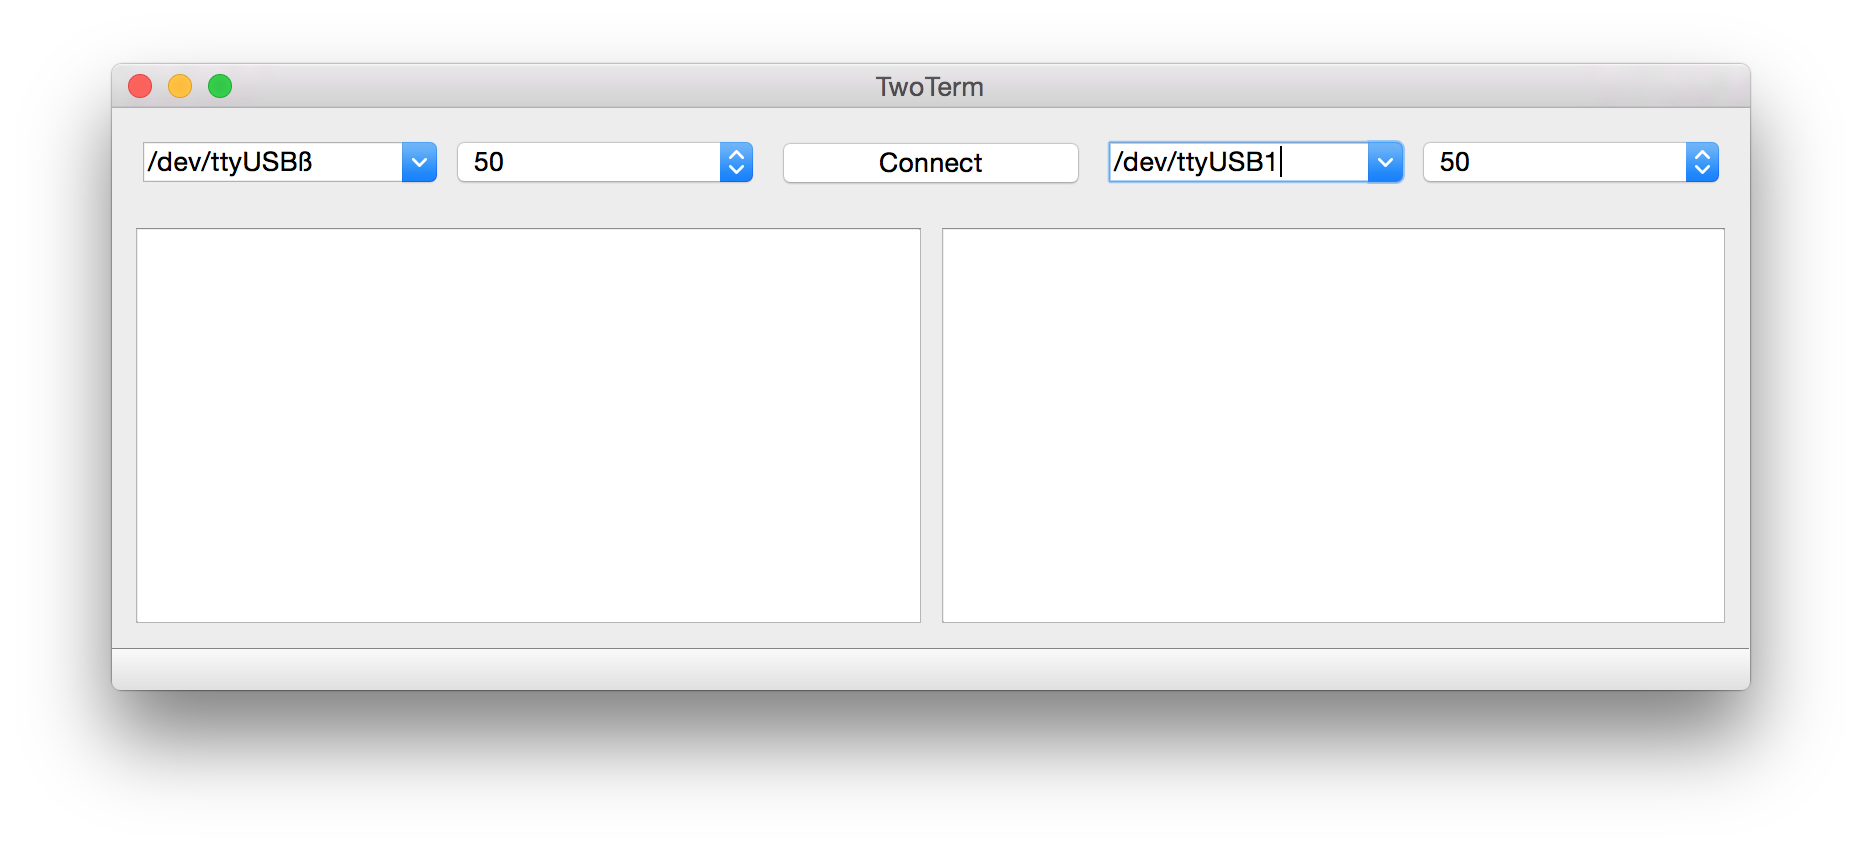
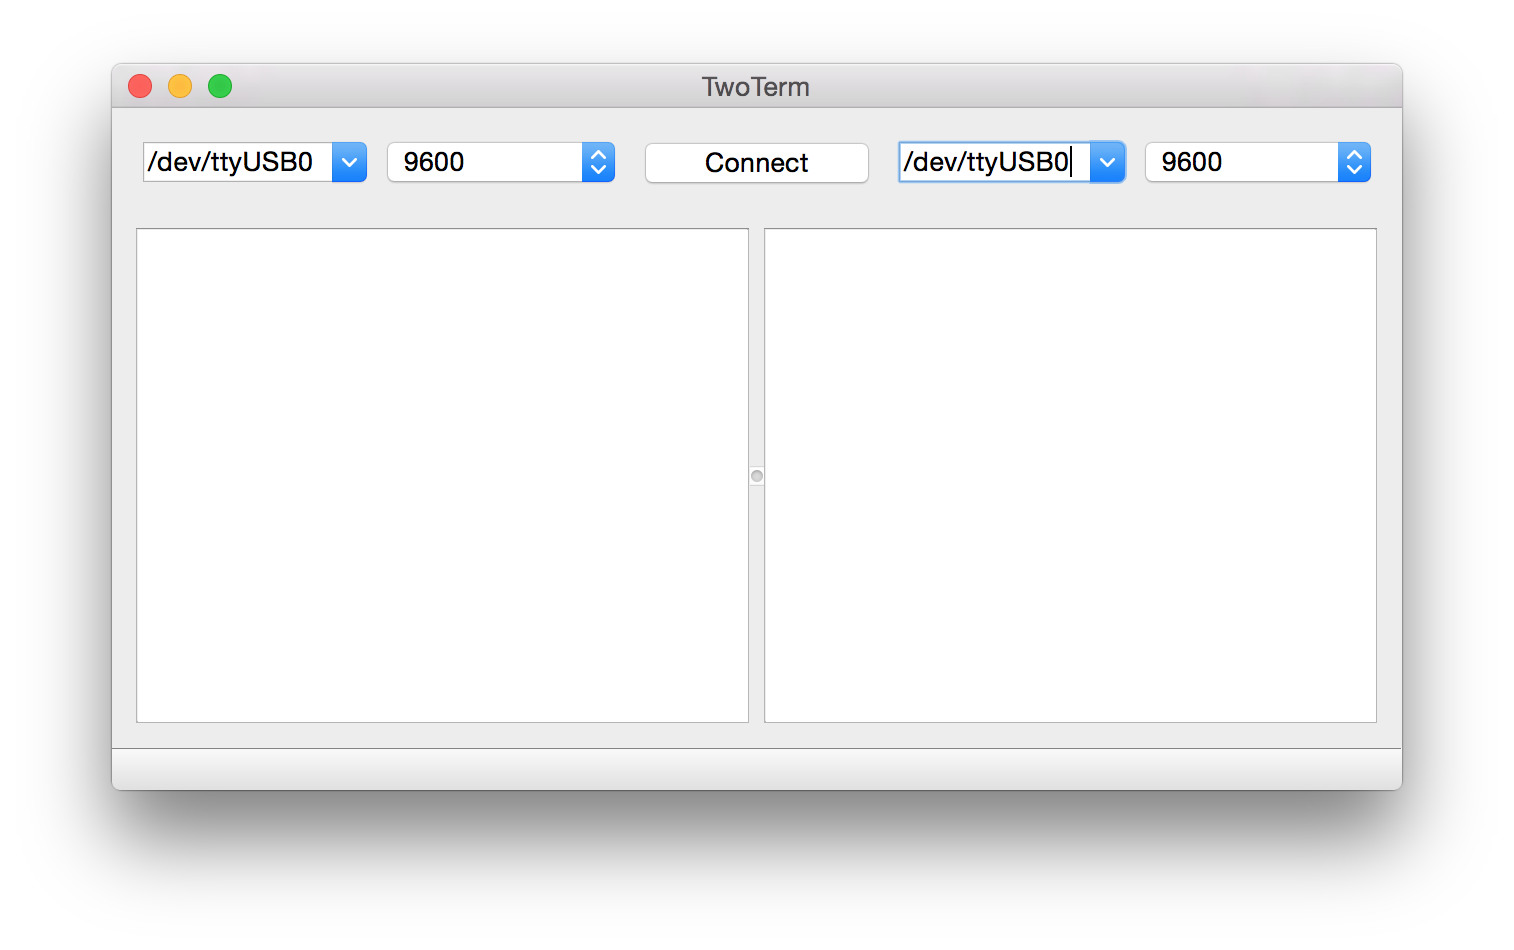
Synced scrolling of text areas.

Changed region(s): [[0.0621, 0.0612, 0.9624, 0.8565]]

diff --git a/twoterm/twoterm.py b/twoterm/twoterm.py
@@ -36,7 +36,7 @@ class TwoTermWidget(QMainWindow):
         self.sioL = None
         self.sioR = None
 
-        loadUi('TwoTerm.ui', self)
+        loadUi('TwoTermSingleScrollArea.ui', self)
 
         self.connect_status = False
 
@@ -49,18 +49,22 @@ class TwoTermWidget(QMainWindow):
         self.comboBoxLBaudrate.addItems(map(str, serial.Serial.BAUDRATES))
         self.comboBoxRBaudrate.addItems(map(str, serial.Serial.BAUDRATES))
 
+        self.textR.verticalScrollBar().valueChanged.connect(self.textL.verticalScrollBar().setValue)
+        self.textR.horizontalScrollBar().valueChanged.connect(self.textL.horizontalScrollBar().setValue)
+        self.textL.horizontalScrollBar().valueChanged.connect(self.textR.horizontalScrollBar().setValue)
+
     def timeout(self):
         l = self.sioL.readline()
         r = self.sioR.readline()
         if l != "":
-            self.textBrowserL.append(l)
+            self.textL.append(l)
         if r != "":
-            self.textBrowserR.append(r)
+            self.textR.append(r)
 
         if l != "" and r == "":
-            self.textBrowserR.append("")
+            self.textR.append("")
         if l == "" and r != "":
-            self.textBrowserL.append("")
+            self.textL.append("")
 
     @pyqtSlot()
     def on_connectButton_clicked(self):
@@ -92,8 +96,8 @@ class TwoTermWidget(QMainWindow):
 
             self.connectButton.setText(DISCONNECT_LABEL)
             self.connect_status = True
-            self.textBrowserL.append(CONNECT_LABEL + " " + str(self.serL))
-            self.textBrowserR.append(CONNECT_LABEL + " " + str(self.serR))
+            self.textL.append(CONNECT_LABEL + " " + str(self.serL))
+            self.textR.append(CONNECT_LABEL + " " + str(self.serR))
 
             self.timer = QTimer(self)
             self.timer.timeout.connect(self.timeout)
@@ -113,5 +117,5 @@ class TwoTermWidget(QMainWindow):
 
             self.connectButton.setText(CONNECT_LABEL)
             self.connect_status = False
-            self.textBrowserL.append(DISCONNECT_LABEL)
-            self.textBrowserR.append(DISCONNECT_LABEL)
+            self.textL.append(DISCONNECT_LABEL)
+            self.textR.append(DISCONNECT_LABEL)
